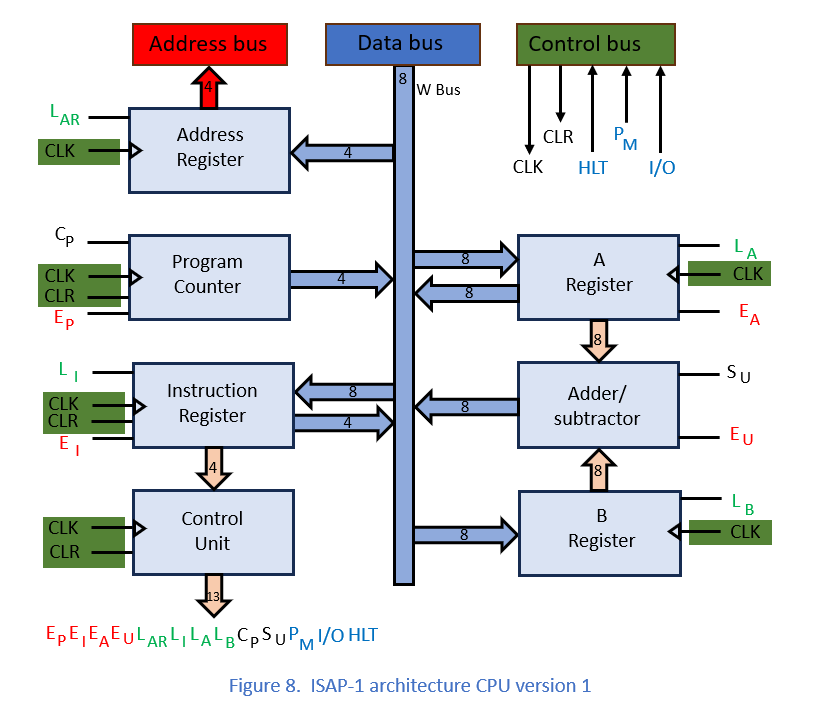
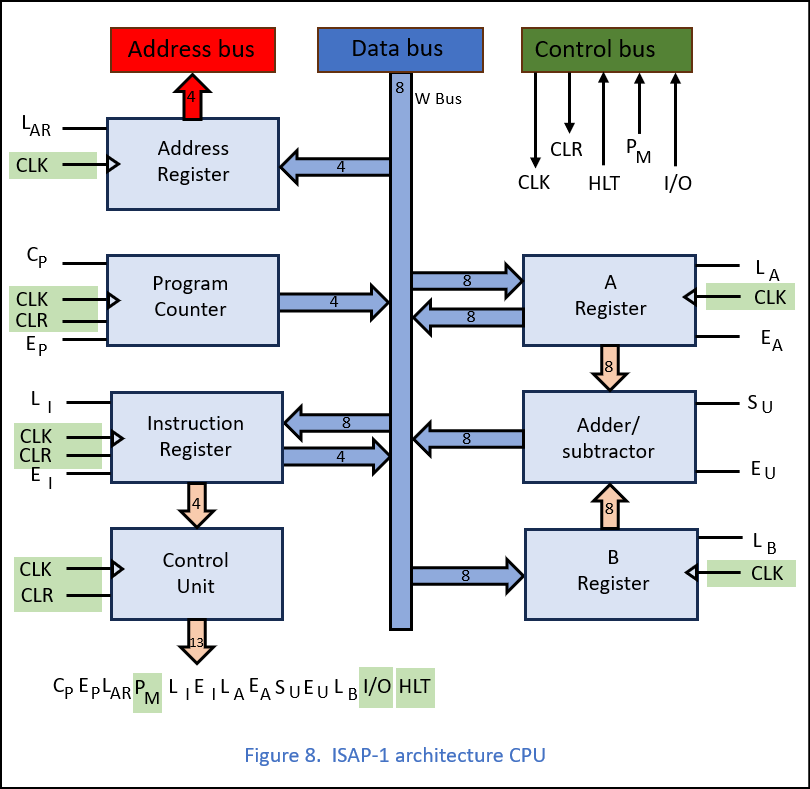
modified:   Pictures/Figure8.png

Changed region(s): [[0.0, 0.0, 1.0, 1.0], [0.0, 0.0, 0.0309, 0.031]]

diff --git a/README.md b/README.md
@@ -94,7 +94,7 @@ In order to highlight the three system buses, we must invert the positions of th
 
 Now I have renamed the Memory Address Register as the Address Register
 
-![ Figure 7 ](/Pictures/Figure7.png)
+![ Figure 8 ](/Pictures/Figure8.png)
 
 The CE signal was renamed PM = Program Memory select \
 The LM signal was renamed LAR = Load Address Register \
